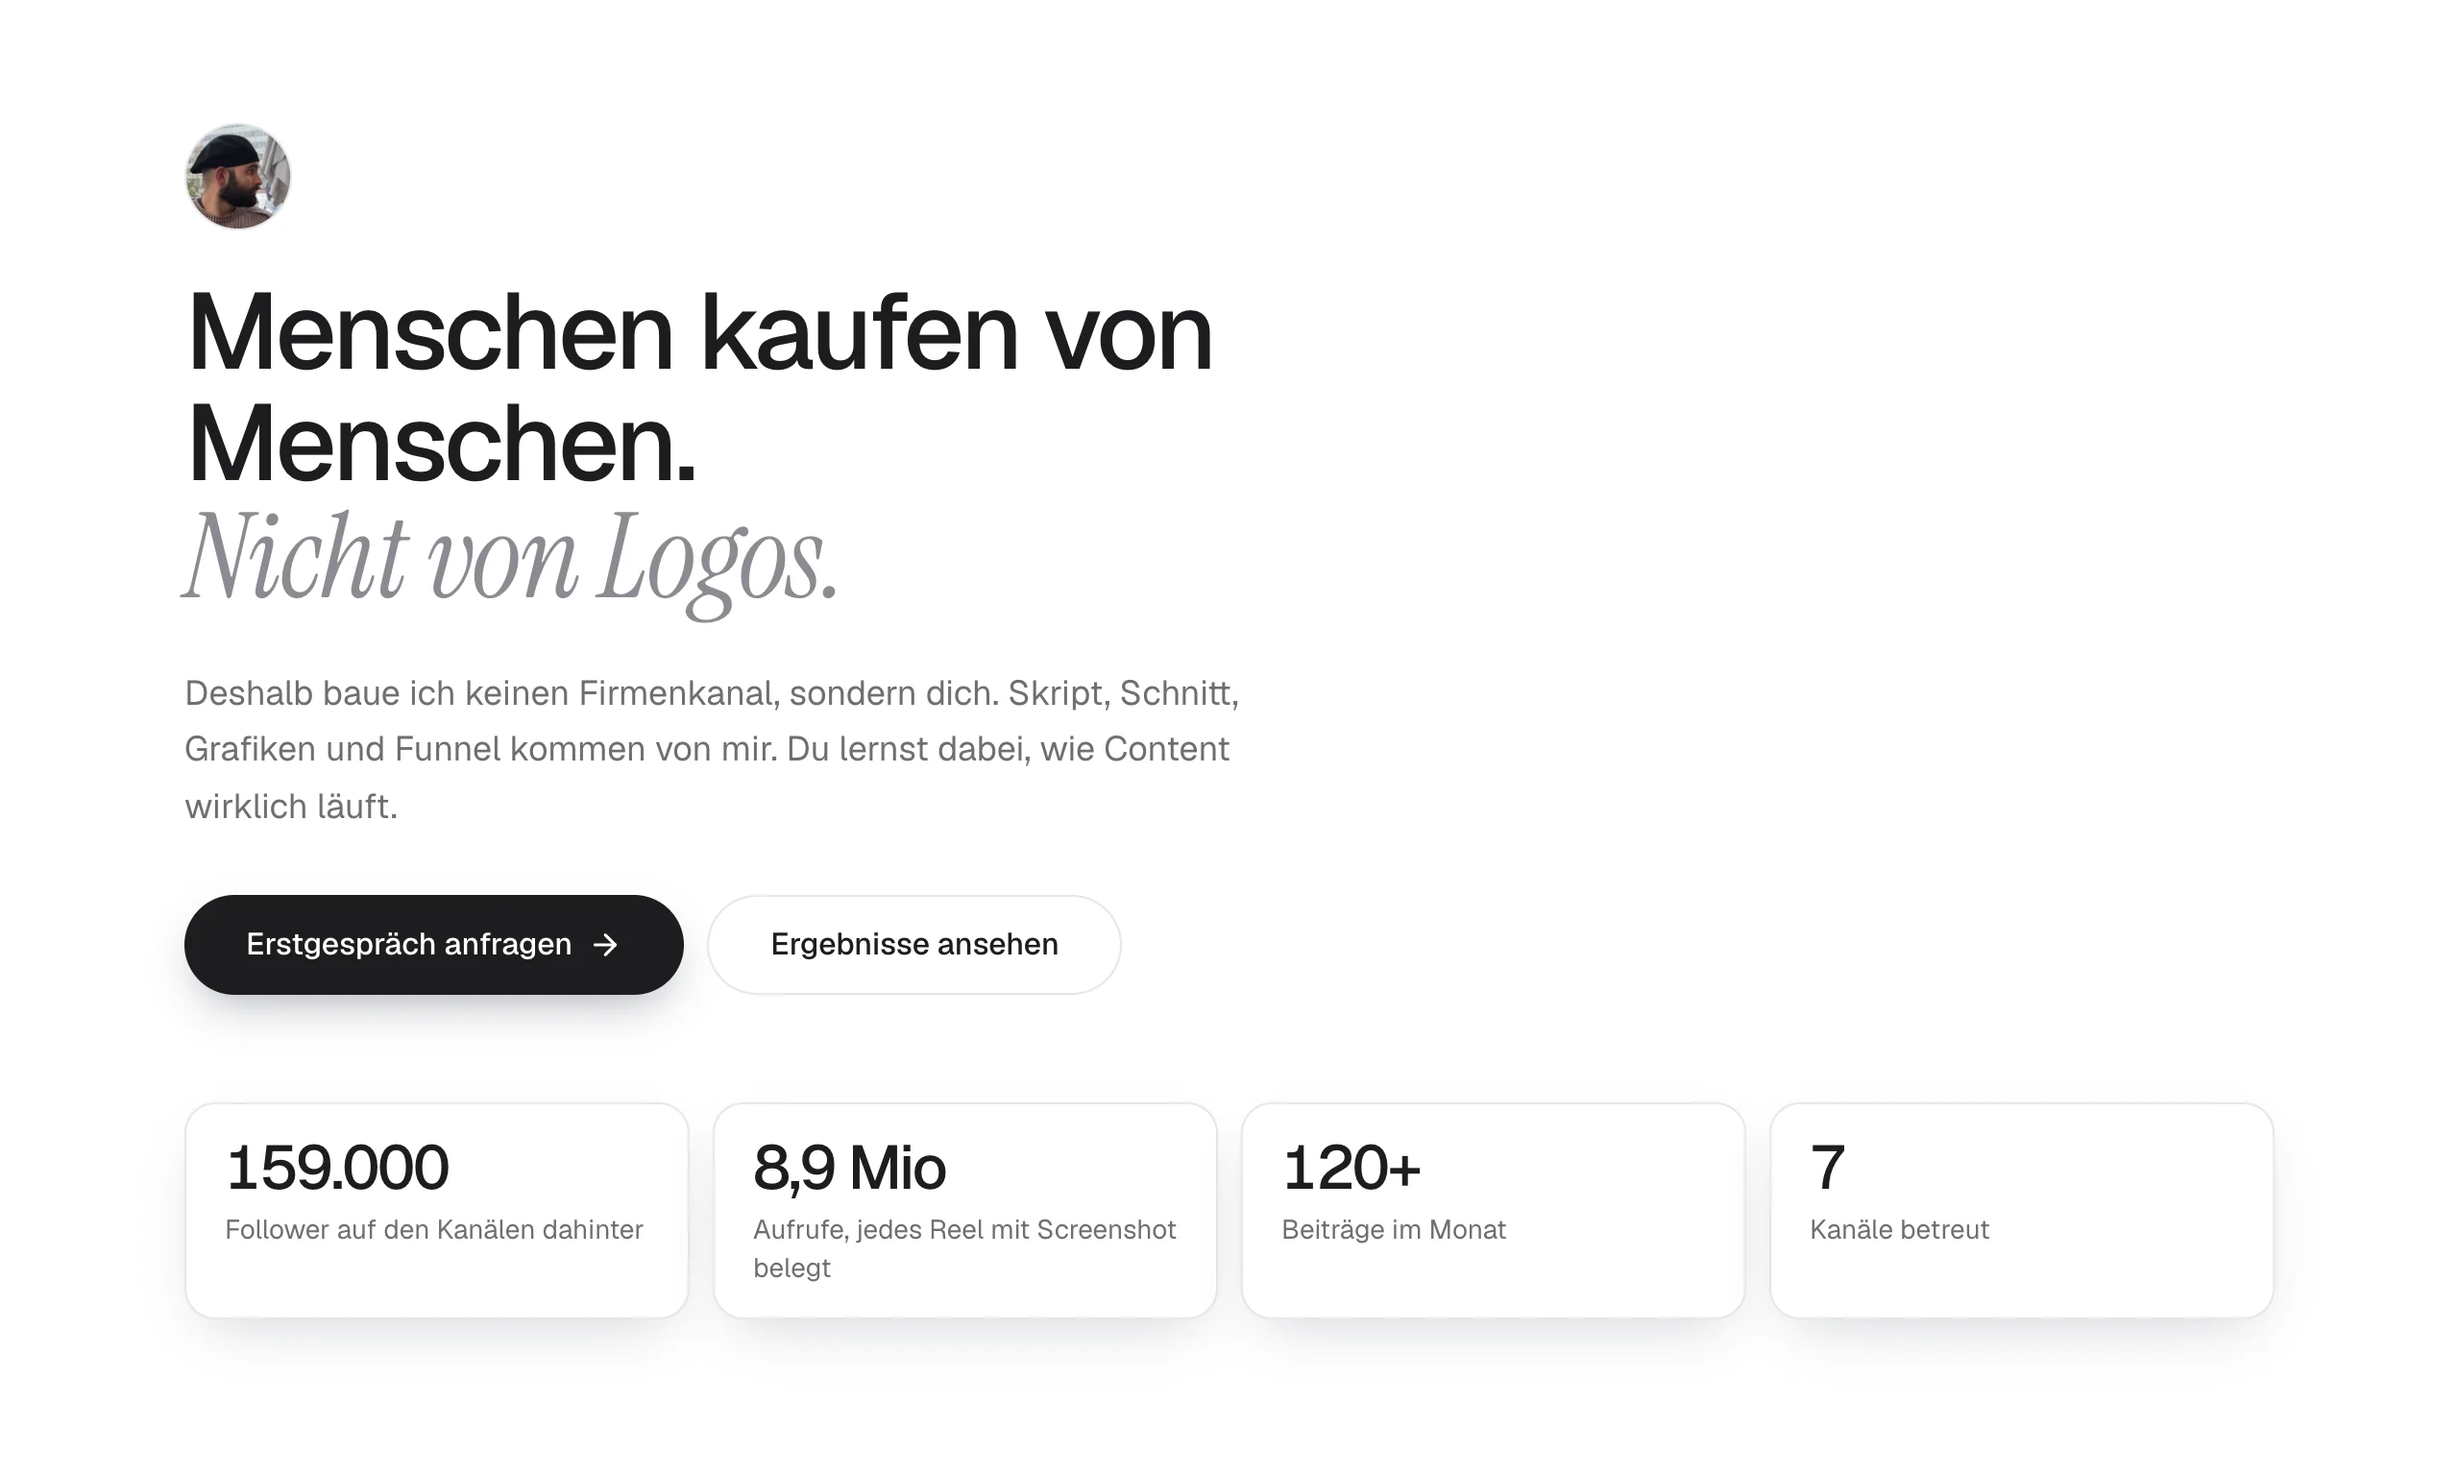
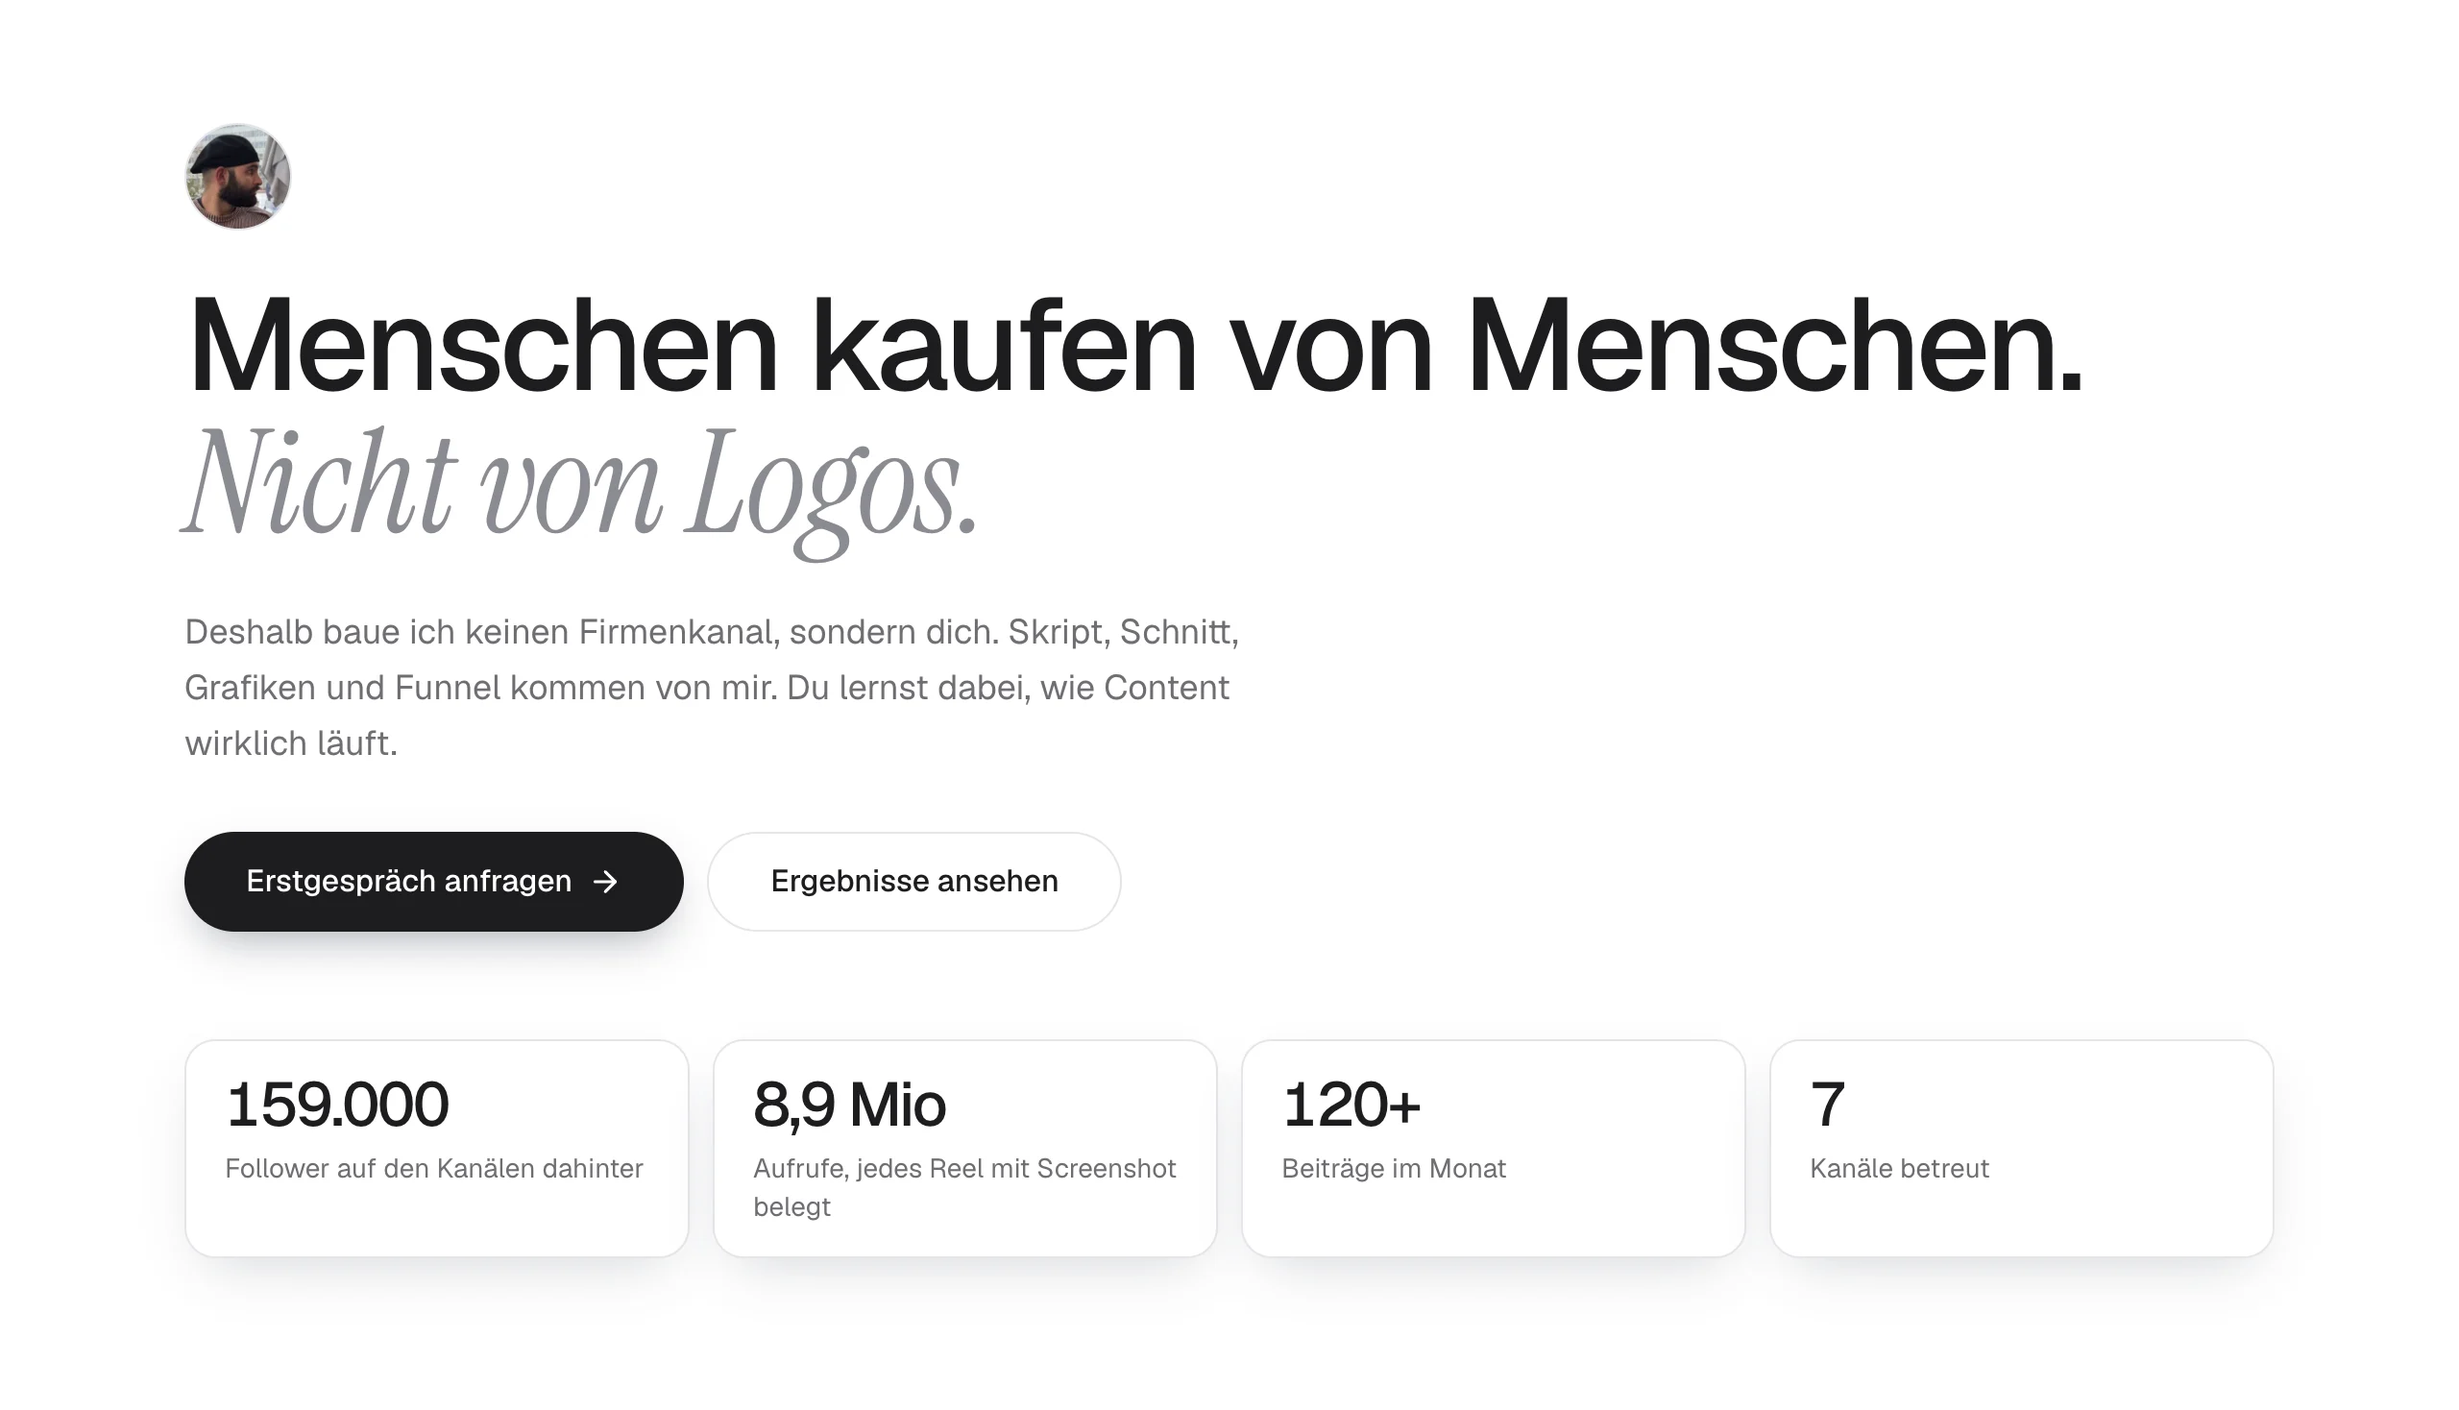
Let the hero headline run the full width
The headline now sits on one line from 1024 px up, so the empty right half
reads as intended space. The right tiles shrink when the margin is narrow
and only rise once they are past the headline and the stat row, with the
moment derived from their sideways path so nothing jumps. Finale still
recaptured.

diff --git a/components/film/intro.tsx b/components/film/intro.tsx
@@ -34,6 +34,18 @@ const TILES: TileSpec[] = [
   { tone: "dark", size: 84, side: "r", dx: -0.42, y: 0.58, rot: -6, trail: 1.15 },
 ];
 
+/** Umkehrung von smoothstep, per Halbierung. */
+function unsmooth(v: number) {
+  let lo = 0;
+  let hi = 1;
+  for (let n = 0; n < 20; n++) {
+    const m = (lo + hi) / 2;
+    if (m * m * (3 - 2 * m) < v) lo = m;
+    else hi = m;
+  }
+  return (lo + hi) / 2;
+}
+
 export function FilmIntro() {
   const tiles = useRef<(HTMLDivElement | null)[]>([]);
   const passer = useRef<HTMLDivElement>(null);
@@ -83,6 +95,10 @@ export function FilmIntro() {
       // Linke Kante des Textes. Linke Kacheln bleiben die ganze Zeit links
       // davon, sonst kreuzen sie die Headline.
       const textL = head.getBoundingClientRect().left;
+      // Tatsaechliche Zeilen der Headline, nicht ihr Block
+      const lines = document.createRange();
+      lines.selectNodeContents(head);
+      const hr = lines.getBoundingClientRect();
       // Die Karten stehen beim Laden auf und ragen dann ueber die Reihe hinaus
       const stats = Array.from(statRow.children).reduce(
         (u, c) => {
@@ -100,9 +116,12 @@ export function FilmIntro() {
         const el = tiles.current[i];
         if (!el) return;
         const left = t.side === "l";
-        // Schmaler Rand neben dem Text: linke Kacheln werden kleiner, statt
-        // auf die Headline zu rutschen.
-        const size = Math.min(t.size * scaleBase, left ? (textL - 14) / 0.65 : Infinity);
+        // Schmaler Rand neben dem Text: Kacheln werden kleiner, statt auf die
+        // Headline zu rutschen.
+        const size = Math.min(
+          t.size * scaleBase,
+          left ? (textL - 14) / 0.65 : (vw - 8 - (Math.max(hr.right, stats.right) + 14)) / 1.15,
+        );
         // Reihenfolge auf der eigenen Seite, fuer den Abstand beim Start
         const j = TILES.slice(0, i).filter((o) => o.side === t.side).length;
         let tx: number;
@@ -118,14 +137,28 @@ export function FilmIntro() {
         }
         const ty = t.y < 1 ? vh * t.y : t.y;
         const sy = a.top + a.height / 2 - 16;
-        // Rechts zuerst nach aussen, dann hoch, sonst streifen sie den Text
-        const x = lerp(sx, tx, left ? e : smooth(0.02, 0.22, q));
-        let yy = lerp(sy, ty, e) - Math.max(0, q - 0.45) * vh * t.trail;
+        // Rechts zuerst nach aussen, dann hoch. Gestiegen wird erst, wenn die
+        // Kachel an Headline und Zahlenreihe vorbei ist. Den Zeitpunkt liefert
+        // die Umkehrung der Seitwaertsbewegung, so gibt es keinen Sprung.
+        let ey = e;
+        let ex = e;
+        if (!left) {
+          ex = smooth(0.02, 0.22, q);
+          const f = (Math.max(hr.right, stats.right) + 14 + size * 0.15 - sx) / (tx - sx);
+          const qc = 0.02 + 0.2 * unsmooth(Math.min(1, Math.max(0, f)));
+          ey = smooth(qc, Math.max(qc + 0.16, 0.38), q);
+        }
+        const x = lerp(sx, tx, ex);
+        let yy = lerp(sy, ty, ey) - Math.max(0, q - 0.45) * vh * t.trail;
         const s = lerp(32, size, e) / t.size;
         // Die Zahlenreihe schiebt sich beim Scrollen von unten heran. Solange
         // eine Kachel ueber ihr steht, bleibt sie oberhalb.
         const w = s * t.size;
-        if (x + w * 1.1 > stats.left && x < stats.right) yy = Math.min(yy, stats.top - 18 - w * 1.1);
+        if (x + w * 1.1 > stats.left) {
+          // Stufenlos loslassen, waehrend die Kachel rechts an der Reihe vorbeizieht
+          const hold = Math.min(1, Math.max(0, (stats.right + 14 + w * 0.6 - x) / (w * 0.6)));
+          yy -= Math.max(0, yy - (stats.top - 18 - w * 1.1)) * hold;
+        }
         // Auf schmalen Bildschirmen gibt es keinen Rand neben dem Blatt,
         // dort wuerden die Kacheln auf Text liegen.
         const gone = yy < -size - 40 || vw < 640;

diff --git a/components/sections/hero.tsx b/components/sections/hero.tsx
@@ -29,7 +29,7 @@ export function Hero() {
           className="mb-6 h-14 w-14 rounded-full border border-border object-cover"
         />
 
-        <h1 className="display max-w-3xl text-[40px] sm:text-5xl lg:text-[56px]">
+        <h1 className="display text-[40px] sm:text-[56px] lg:text-[60px] xl:text-[68px]">
           {/* Fester Umbruch, damit der zweite Satz nicht zerrissen wird. */}
           <span className="block">Menschen kaufen von Menschen.</span>
           <span className="tail block">Nicht von Logos.</span>
